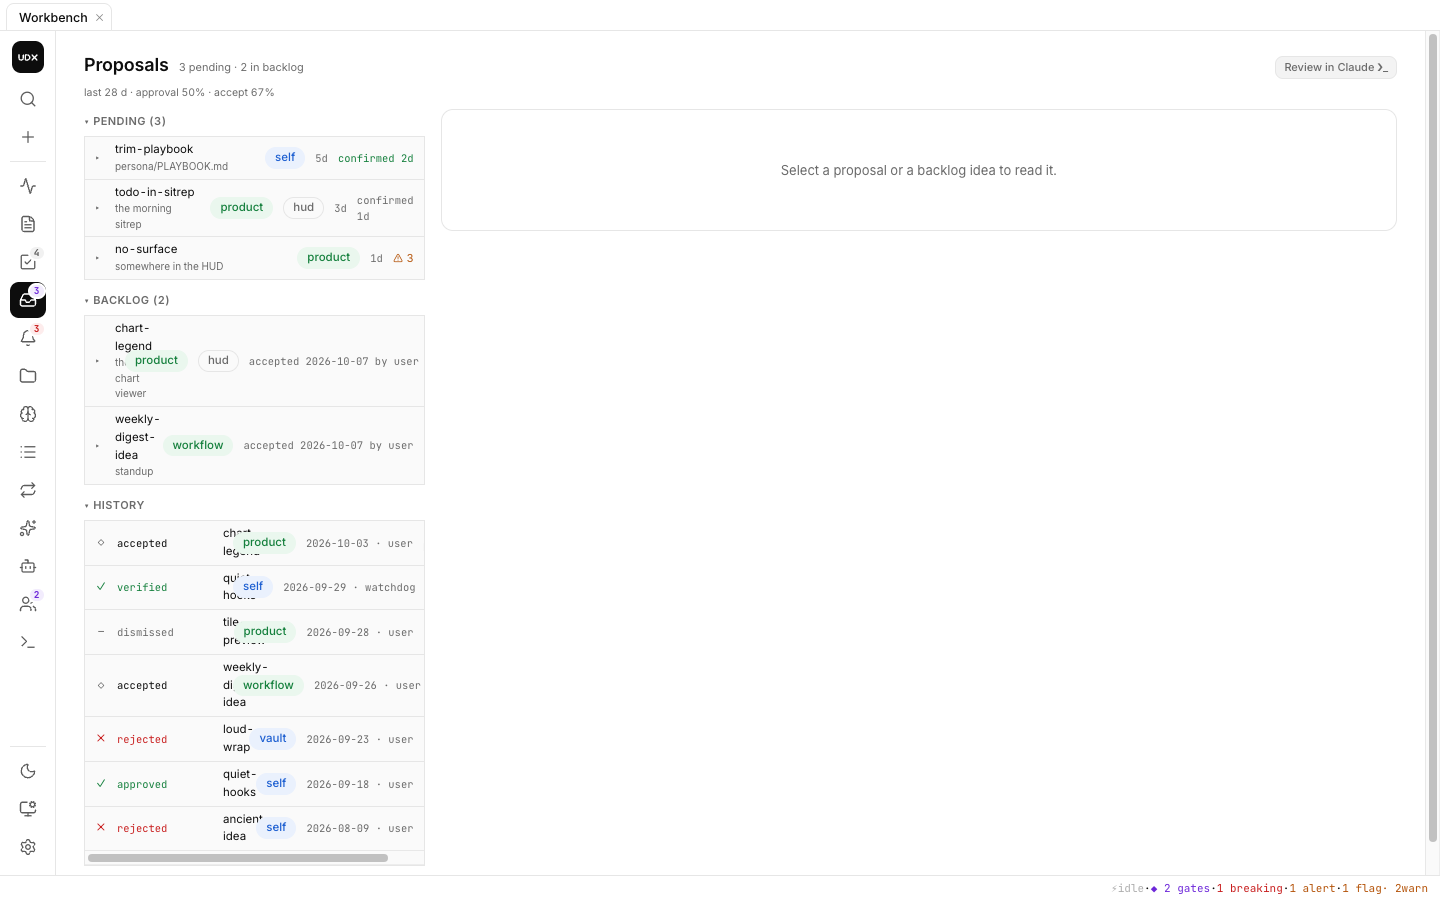
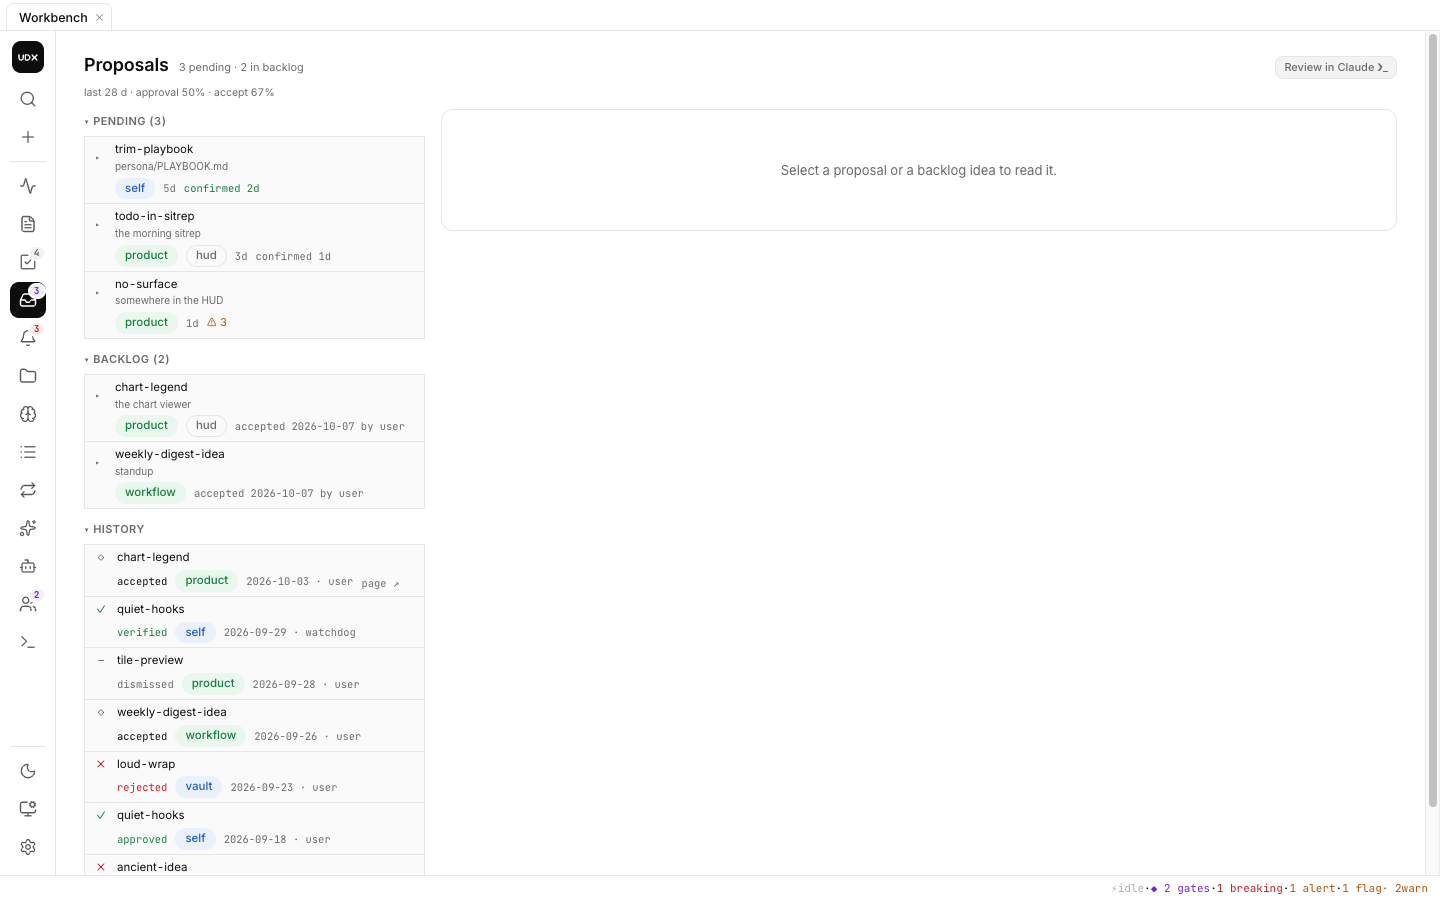
fix(hud): Proposals' list rows fit the list pane (#88)
Each row puts its name on its own line and its kind, age, confirmations
and lint (history: the event, kind, date and page link) on a line below,
so a name no longer breaks mid-word in the 340 px list pane and the
history table no longer scrolls sideways. The README's Proposals
screenshot is retaken.

diff --git a/obsidian-plugin/src/views/ProposalsTab.ts b/obsidian-plugin/src/views/ProposalsTab.ts
@@ -170,18 +170,19 @@ export class ProposalsTab {
     const name = row.createDiv({ cls: "aos-rt-name" });
     name.createDiv({ text: p.slug });
     name.createDiv({ cls: "aos-dim aos-rt-slug", text: p.target });
-    row.createSpan({ cls: `aos-pill ${KIND_PILL[p.kind] ?? "aos-pill-dim"}`, text: p.kind });
-    if (p.surface) row.createSpan({ cls: "aos-pill aos-pill-dim", text: p.surface });
+    const meta = row.createDiv({ cls: "aos-pr-rowmeta" });
+    meta.createSpan({ cls: `aos-pill ${KIND_PILL[p.kind] ?? "aos-pill-dim"}`, text: p.kind });
+    if (p.surface) meta.createSpan({ cls: "aos-pill aos-pill-dim", text: p.surface });
     const age = ageDays(p.filed, new Date());
-    row.createSpan({ cls: "aos-dim aos-pr-age", text: age === null ? p.filed : `${age}d`, attr: { title: `filed ${p.filed}` } });
+    meta.createSpan({ cls: "aos-dim aos-pr-age", text: age === null ? p.filed : `${age}d`, attr: { title: `filed ${p.filed}` } });
     const n = this.streak[p.slug] ?? 0;
     if (n > 0) {
-      row.createSpan({
+      meta.createSpan({
         cls: `aos-pr-streak ${n >= MIN_CONFIRMATIONS ? "aos-text-green" : "aos-dim"}`, text: `confirmed ${n}d`,
         attr: { title: `the recheck recipe still found the finding on ${n} consecutive day(s); auto-apply needs ${MIN_CONFIRMATIONS}+ and a whitelisted class` },
       });
     }
-    if (p.lint.length) row.createSpan({ cls: "aos-text-amber aos-pr-lint", text: `⚠ ${p.lint.length}`, attr: { title: p.lint.join("\n") } });
+    if (p.lint.length) meta.createSpan({ cls: "aos-text-amber aos-pr-lint", text: `⚠ ${p.lint.length}`, attr: { title: p.lint.join("\n") } });
     row.addEventListener("click", () => { this.toggle(key); });
   }
 
@@ -224,9 +225,10 @@ export class ProposalsTab {
     const name = row.createDiv({ cls: "aos-rt-name" });
     name.createDiv({ text: b.slug });
     if (b.target) name.createDiv({ cls: "aos-dim aos-rt-slug", text: b.target });
-    row.createSpan({ cls: `aos-pill ${KIND_PILL[b.kind] ?? "aos-pill-dim"}`, text: b.kind });
-    if (b.surface) row.createSpan({ cls: "aos-pill aos-pill-dim", text: b.surface });
-    row.createSpan({ cls: "aos-dim aos-pr-age", text: b.accepted ? `accepted ${b.accepted}` : `filed ${b.filed}` });
+    const meta = row.createDiv({ cls: "aos-pr-rowmeta" });
+    meta.createSpan({ cls: `aos-pill ${KIND_PILL[b.kind] ?? "aos-pill-dim"}`, text: b.kind });
+    if (b.surface) meta.createSpan({ cls: "aos-pill aos-pill-dim", text: b.surface });
+    meta.createSpan({ cls: "aos-dim aos-pr-age", text: b.accepted ? `accepted ${b.accepted}` : `filed ${b.filed}` });
     row.addEventListener("click", () => { this.toggle(key); });
   }
 
@@ -245,15 +247,16 @@ export class ProposalsTab {
   }
 
   private renderHistory(table: HTMLElement, r: LedgerRecord): void {
-    const row = table.createDiv({ cls: "aos-inv-row aos-pr-row" });
+    const row = table.createDiv({ cls: "aos-inv-row aos-pr-row aos-pr-history" });
     const [mark, cls] = EVENT_MARK[r.event] ?? ["·", "aos-dim"];
     row.createSpan({ cls: `aos-pr-mark ${cls}`, text: mark });
-    row.createSpan({ cls: `aos-pr-event ${cls}`, text: r.event });
-    row.createSpan({ cls: "aos-rt-name", text: r.slug });
-    row.createSpan({ cls: `aos-pill ${KIND_PILL[r.kind] ?? "aos-pill-dim"}`, text: r.kind });
-    row.createSpan({ cls: "aos-dim aos-pr-age", text: `${r.ts.slice(0, 10)}${r.by ? ` · ${r.by}` : ""}` });
+    row.createSpan({ cls: "aos-rt-name", text: r.slug, attr: { title: r.slug } });
+    const meta = row.createDiv({ cls: "aos-pr-rowmeta" });
+    meta.createSpan({ cls: `aos-pr-event ${cls}`, text: r.event });
+    meta.createSpan({ cls: `aos-pill ${KIND_PILL[r.kind] ?? "aos-pill-dim"}`, text: r.kind });
+    meta.createSpan({ cls: "aos-dim aos-pr-age", text: `${r.ts.slice(0, 10)}${r.by ? ` · ${r.by}` : ""}` });
     const page = pageForSlug(this.pages, r.slug);
-    if (page) this.pageLink(row, page, "page ↗").addClass("aos-pr-pagelink");
+    if (page) this.pageLink(meta, page, "page ↗").addClass("aos-pr-pagelink");
     if (r.note) row.setAttr("title", r.note);
   }
 

diff --git a/obsidian-plugin/styles.css b/obsidian-plugin/styles.css
@@ -1934,7 +1934,14 @@ body {
 .aos-pr-rates { font-size: 10.5px; margin: -2px 0 8px; }
 .aos-pr-grouphead { cursor: pointer; user-select: none; }
 .aos-pr-grouphead:hover { color: var(--aos-text); }
-.aos-pr-row { gap: 10px; }
+/* A proposal row (UniDeX D4): its name across the top and its kind, age and confirmations on a line below, so the row
+   fits the list pane without squeezing the name or scrolling sideways. The meta line starts under the name. */
+.aos-pr-row { flex-wrap: wrap; gap: 3px 10px; }
+.aos-pr-row .aos-rt-name { flex: 1 1 0; }
+.aos-pr-rowmeta { flex: 1 0 100%; display: flex; flex-wrap: wrap; align-items: center; gap: 4px 8px; padding-left: 20px; box-sizing: border-box; }
+.aos-pr-history .aos-rt-name { overflow: hidden; text-overflow: ellipsis; white-space: nowrap; }
+.aos-pr-history .aos-pr-rowmeta { padding-left: 22px; }
+.aos-pr-rowmeta .aos-pr-event { flex: 0 0 auto; }
 .aos-pr-caret { flex: 0 0 10px; font-size: 10px; }
 .aos-pr-age { flex: 0 0 auto; font-family: var(--aos-mono); font-size: 10.5px; }
 .aos-pr-streak { font-family: var(--aos-mono); font-size: 10.5px; }

diff --git a/CHANGELOG.md b/CHANGELOG.md
@@ -20,6 +20,7 @@ All notable changes to UniDeX (AgenticOS Workbench before 1.1). Versions follow 
 - The Claude Code and Codex plugins say UniDeX too: their descriptions, Codex's plugin and marketplace name, `/aos`'s description and a new vault's `AGENTICOS.md`. Only text changed, so the hooks you trusted stay trusted.
 
 ### Fixed
+- Proposals' list fits its pane: each row puts the name on its own line and its kind, age and confirmations below it, so names no longer break mid-word and the history no longer scrolls sideways.
 - A link in a note or a notification to a web page, PDF or image in the vault opens it with its default app, through the same rules as the Proposals tab's pages: an HTML page opens in the browser when it is under `brain/_index/` and is shown in Finder anywhere else. Before, the link opened the file as source text in a note, so a routine could not link a notification to the page it wrote.
 
 ## [1.0.1] — 2026-10-06
